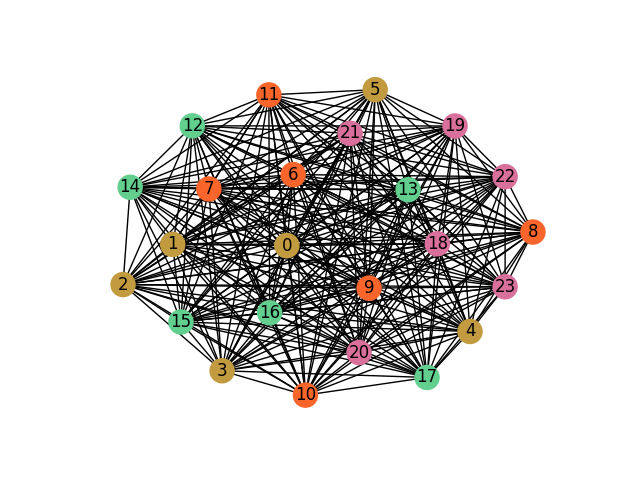
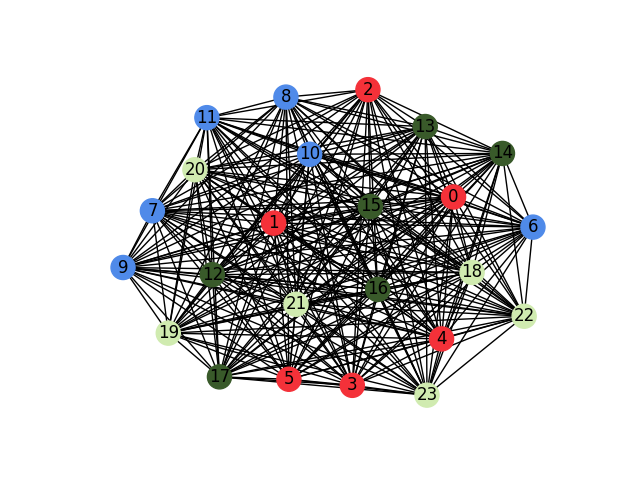
improved drawing

Changed region(s): [[0.1562, 0.1562, 0.875, 0.875]]

diff --git a/graph_part.py b/graph_part.py
@@ -9,11 +9,13 @@ def draw_graph(G, partitioning, alg_name, graph_type, num):
     fig = plt.figure()
     colors, color_map = [], []
     n = len(partitioning)
+    print("DRAW", alg_name, partitioning)
     for i in range(n):
         colors.append('#%06X' % randint(0, 0xFFFFFF))
     for i, c in zip(range(n), colors):
         for node in G:
             if node in partitioning[i]:
+                print("FIND", node, i)
                 color_map.append(c)
     nx.draw(G, ax=fig.add_subplot(), node_color=color_map, with_labels=True)
     fig.savefig("graphs/" + alg_name + "-" +  graph_type + "-" + str(num) + ".png")
@@ -125,4 +127,7 @@ for num in [2, 4, 6, 8]:
     for i in range(4):
         partitioning = get_partition(G, num, i)
         print("part", i, partitioning)
+        for lst in partitioning:
+            for i in range(len(lst)):
+                lst[i] = int(lst[i])
         draw_graph(G, partitioning, "obj_func_" + str(i), "complete", num)
